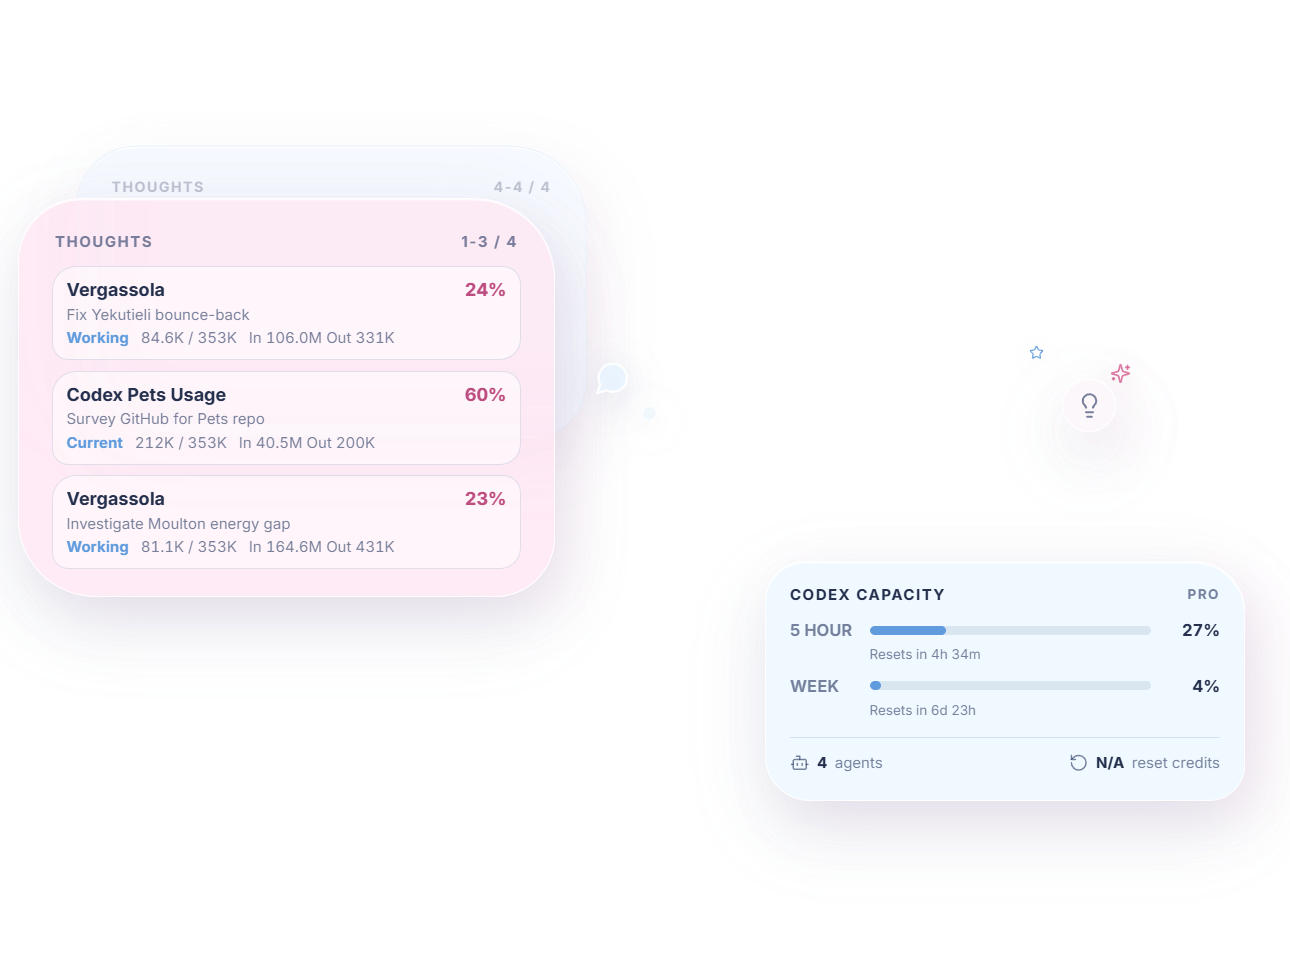
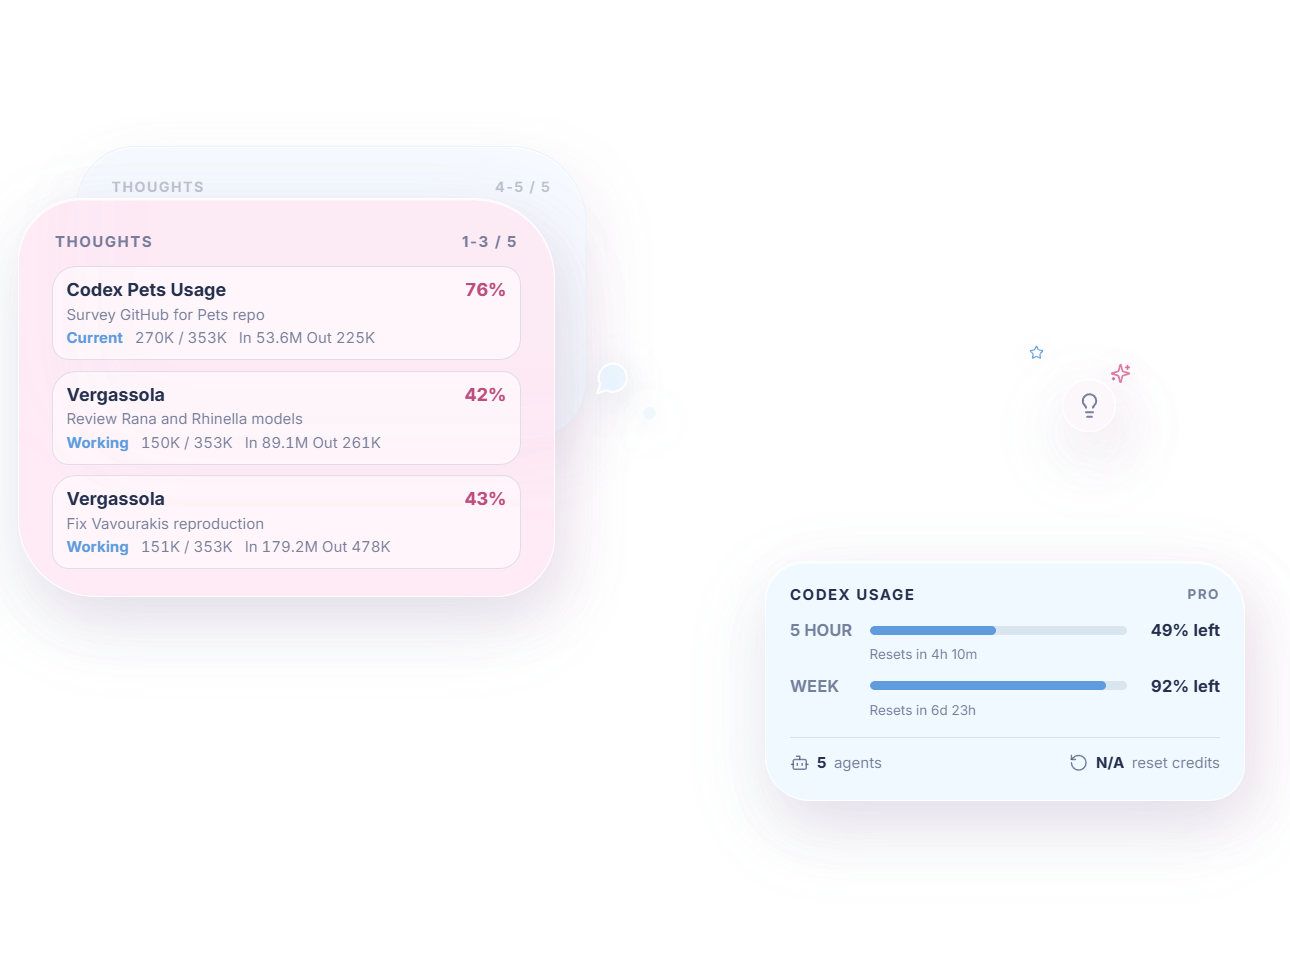
Track pet and show remaining Codex usage

diff --git a/src/main.js b/src/main.js
@@ -90,8 +90,20 @@ function positionOverlay(window, overview, force = false) {
   let y = maxY - 32;
   const useHighDpiSafePlacement = process.platform === 'win32' && display.scaleFactor > 1;
   if (useHighDpiSafePlacement) {
-    x = workArea.x + Math.round(workArea.width * 0.145);
-    y = workArea.y + Math.round(workArea.height * 0.05);
+    const source = overview.pet?.displayBounds;
+    const anchor = overview.pet?.anchor;
+    const progressX = source && anchor
+      ? clamp((anchor.x + (anchor.width / 2) - source.x) / source.width, 0, 1)
+      : 0.5;
+    const progressY = source && anchor
+      ? clamp((anchor.y + (anchor.height / 2) - source.y) / source.height, 0, 1)
+      : 0.5;
+    const safeMinX = workArea.x + 8;
+    const safeMinY = workArea.y + 8;
+    const safeMaxX = workArea.x + Math.round(workArea.width * 0.16);
+    const safeMaxY = workArea.y + Math.round(workArea.height * 0.075);
+    x = Math.round(safeMinX + ((safeMaxX - safeMinX) * progressX));
+    y = Math.round(safeMinY + ((safeMaxY - safeMinY) * progressY));
   } else if (anchorCenter) {
     x = clamp(
       anchorCenter.x - localPet.x,

diff --git a/src/renderer/renderer.js b/src/renderer/renderer.js
@@ -152,13 +152,16 @@ function quotaFillClass(percent) {
 }
 
 function quotaMarkup(window, fallback) {
-  const percent = Number.isFinite(window?.usedPercent) ? window.usedPercent : null;
+  const usedPercent = Number.isFinite(window?.usedPercent) ? window.usedPercent : null;
+  const remainingPercent = Number.isFinite(window?.remainingPercent)
+    ? window.remainingPercent
+    : usedPercent === null ? null : 100 - usedPercent;
   const label = quotaLabel(window, fallback);
   return `
     <div class="quota-row">
       <span class="quota-label">${label}</span>
-      <span class="quota-track"><span class="quota-fill ${percent === null ? '' : quotaFillClass(percent)}" style="width: ${percent ?? 0}%"></span></span>
-      <span class="quota-percent">${percent === null ? '--' : `${percent}%`}</span>
+      <span class="quota-track"><span class="quota-fill ${usedPercent === null ? '' : quotaFillClass(usedPercent)}" style="width: ${remainingPercent ?? 0}%"></span></span>
+      <span class="quota-percent">${remainingPercent === null ? '--' : `${Math.round(remainingPercent)}% left`}</span>
       <span class="quota-reset">${humanReset(window?.resetsAt)}</span>
     </div>
   `;

diff --git a/src/codex-data.js b/src/codex-data.js
@@ -287,6 +287,11 @@ function selectVisibleSessions(files, sessionIndex, now, limit, currentThreadId 
     || selected.find((task) => task.status === 'working' && !task.isSubagent);
   if (currentTask) {
     currentTask.current = true;
+    const currentIndex = selected.indexOf(currentTask);
+    if (currentIndex > 0) {
+      selected.splice(currentIndex, 1);
+      selected.unshift(currentTask);
+    }
   }
   return selected;
 }

diff --git a/src/rate-limits.js b/src/rate-limits.js
@@ -18,8 +18,10 @@ function normalizeWindow(window) {
     return null;
   }
 
+  const usedPercent = Math.max(0, Math.min(100, window.usedPercent));
   return {
-    usedPercent: Math.max(0, Math.min(100, window.usedPercent)),
+    usedPercent,
+    remainingPercent: 100 - usedPercent,
     windowDurationMins: Number.isFinite(window.windowDurationMins) ? window.windowDurationMins : null,
     resetsAt: Number.isFinite(window.resetsAt) ? window.resetsAt : null,
   };

diff --git a/test/rate-limits.test.js b/test/rate-limits.test.js
@@ -14,8 +14,8 @@ test('normalizeRateLimitSnapshot preserves both subscription windows and reset c
 
   assert.deepEqual(snapshot, {
     status: 'available',
-    primary: { usedPercent: 13, windowDurationMins: 300, resetsAt: 1_800_000_000 },
-    secondary: { usedPercent: 2, windowDurationMins: 10_080, resetsAt: 1_800_050_000 },
+    primary: { usedPercent: 13, remainingPercent: 87, windowDurationMins: 300, resetsAt: 1_800_000_000 },
+    secondary: { usedPercent: 2, remainingPercent: 98, windowDurationMins: 10_080, resetsAt: 1_800_050_000 },
     resetCredits: 3,
     plan: 'pro',
   });

diff --git a/src/renderer/index.html b/src/renderer/index.html
@@ -29,7 +29,7 @@
 
       <section id="usage-podium" class="usage-podium" aria-label="Codex usage limits">
         <header class="podium-header">
-          <span>CODEX CAPACITY</span>
+          <span>CODEX USAGE</span>
           <span id="plan-label">ACCOUNT</span>
         </header>
         <div id="quota-rows" class="quota-rows"></div>

diff --git a/src/renderer/styles.css b/src/renderer/styles.css
@@ -275,7 +275,7 @@ button {
 
 .quota-row {
   display: grid;
-  grid-template-columns: 45px minmax(0, 1fr) 38px;
+  grid-template-columns: 45px minmax(0, 1fr) 54px;
   align-items: center;
   gap: 8px;
 }